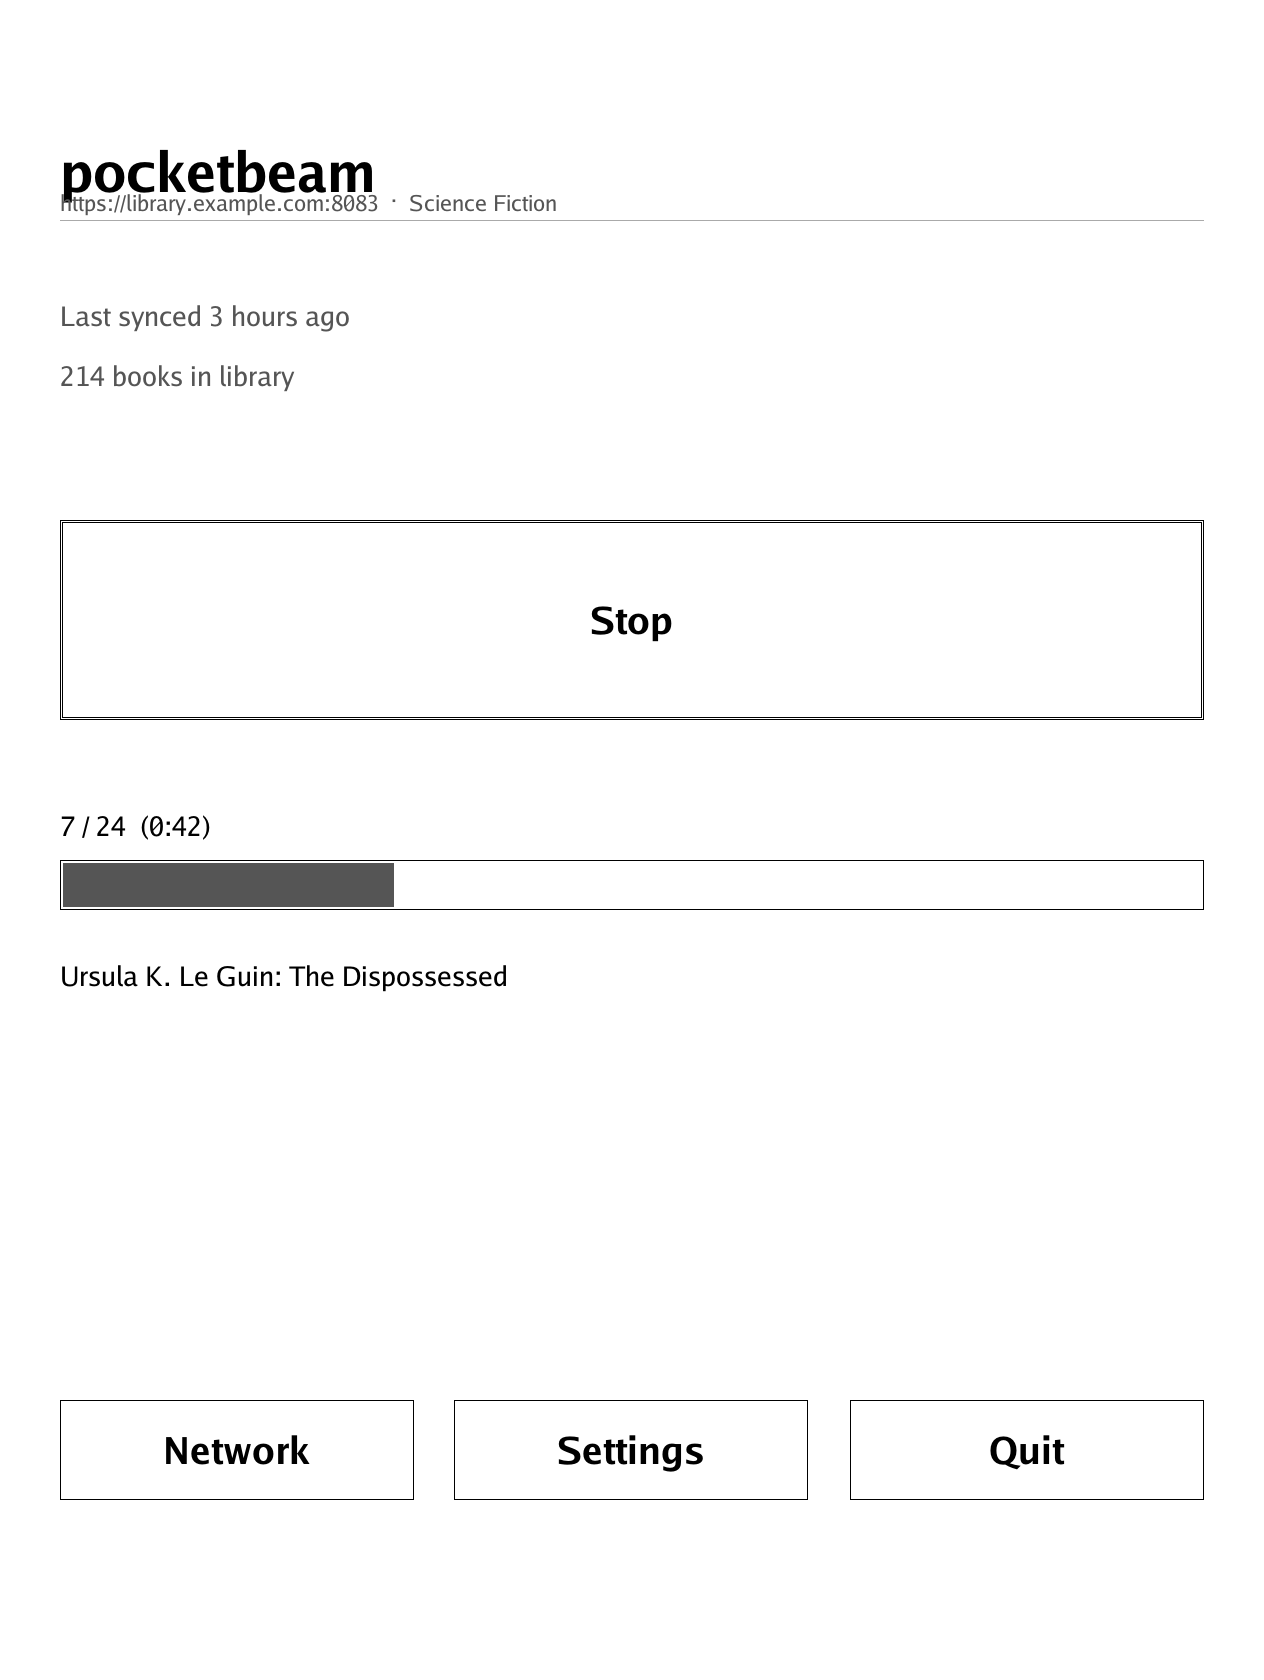
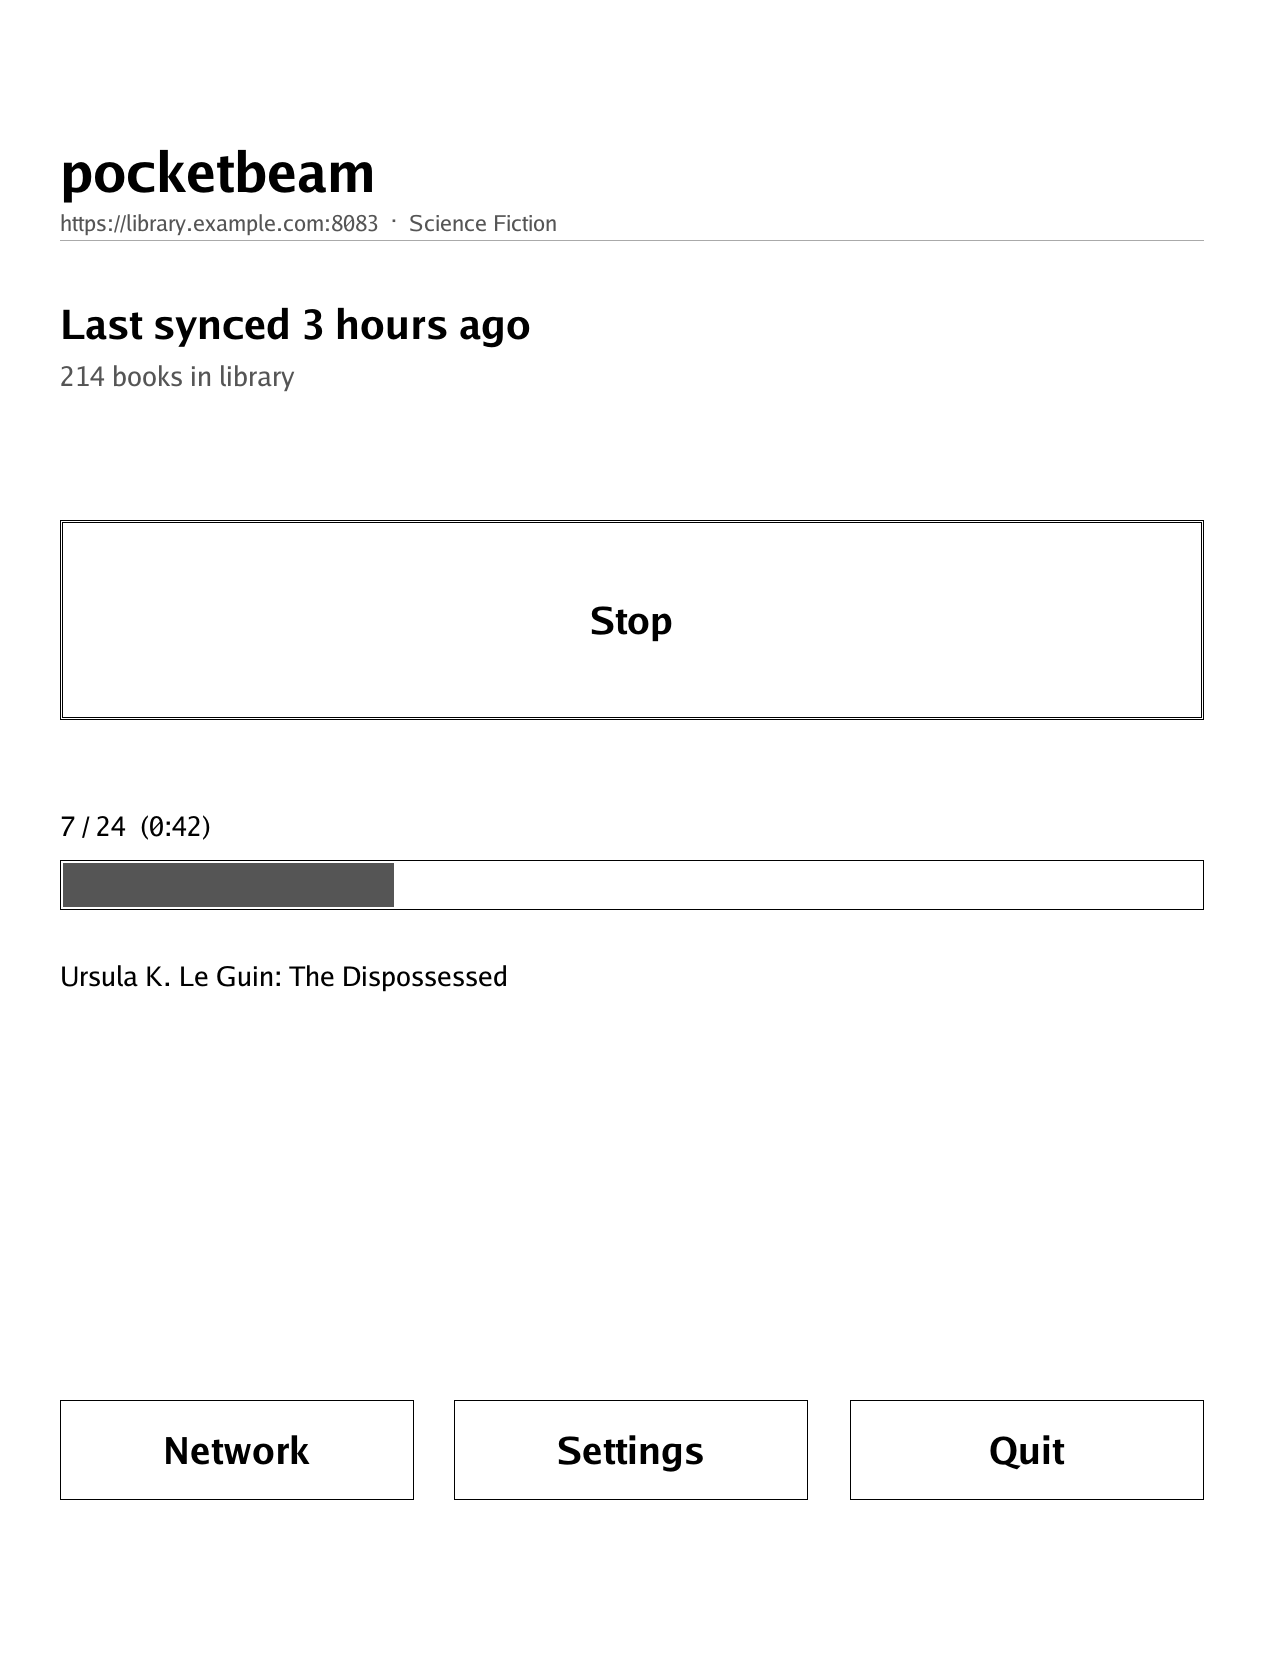
Put the main screen's header and status block on the shared grid
The screenshots this PR puts at the top of the README showed the header
lines touching: a string occupies a glyph box as tall as the face it was
opened at, so the 64 px title drawn at sy(140) runs to sy(204) while the
subtitle started at sy(190). Every other screen (dir picker, feed picker,
profile detail, updates) already uses 140 / 210 / 240 for title,
subtitle and hairline; the main screen was the one off-grid and is moved
onto it.

The status block opened a 48 px bold face, made it active, and replaced
it with the muted 32 px body face on the next line, so the "emphatic
primary line" its comment describes was never drawn and every line
rendered muted. The primary line now uses the hero face and only the
supporting lines are muted.

The screenshot fixture fed time.Now() into a render that is compared
pixel-for-pixel against a committed PNG, which only held because
humanAgo buckets 90 min - 24 h to whole hours. The phrase is now
resolved into mainView by its caller, like syncSnapshot.elapsed already
is, so drawing depends on no clock and the fixture states a fixed
string.

TestDrawMainLinesDoNotOverlap asserts no two strings on the screen claim
the same pixels, across the idle, first-run, failures-plus-update and
syncing states; it fails on the old header offsets. There is no device
in CI, so the geometry is checked directly instead of by eye.

Closes #18

Changed region(s): [[0.0617, 0.0929, 0.432, 0.1548], [0.0309, 0.1857, 0.432, 0.2167]]

diff --git a/ui_main.go b/ui_main.go
@@ -31,10 +31,15 @@ type syncSnapshot struct {
 // starts: the header subtitle, the library stats, the sync progress, and
 // the version of a waiting update ("" when none).
 type mainView struct {
-	subtitle  string
-	stats     mainStats
-	sync      syncSnapshot
-	updateVer string
+	subtitle string
+	stats    mainStats
+	// lastSyncAgo is stats.lastSync.At already phrased ("3 hours ago"),
+	// read only when stats.hasLastSync. Resolved by the caller like
+	// syncSnapshot.elapsed, so the draw depends on no clock and renders
+	// the same image every time.
+	lastSyncAgo string
+	sync        syncSnapshot
+	updateVer   string
 }
 
 // mainSubtitle renders the header's second line: which server this
@@ -61,22 +66,24 @@ func drawMain(c Canvas, l layout, v mainView) {
 	btnFont := l.font(c, 44, true)
 
 	// Title + host subtitle (host in muted gray so the filter/host context
-	// is present but secondary to the action area).
+	// is present but secondary to the action area). A string sits in a
+	// glyph box as tall as the size it was opened at, so the 64px title
+	// occupies down to sy(204): the subtitle goes below that, on the same
+	// 140/210/240 header grid every other screen uses.
 	c.SetFont(title, black)
 	c.Text(image.Point{X: l.margin, Y: l.sy(140)}, "pocketbeam")
 	c.SetFont(small, darkGray)
-	c.Text(image.Point{X: l.margin, Y: l.sy(190)}, truncate(v.subtitle, 60))
+	c.Text(image.Point{X: l.margin, Y: l.sy(210)}, truncate(v.subtitle, 60))
 
 	// Hairline under the header.
-	l.drawHairline(c, l.margin, l.screen.X-l.margin, l.sy(220))
+	l.drawHairline(c, l.margin, l.screen.X-l.margin, l.sy(240))
 
 	// Status hero: emphatic primary line + muted supporting details.
 	statusY := l.sy(300)
 	c.SetFont(hero, black)
-	c.SetFont(body, darkGray)
 	if v.stats.hasLastSync {
-		c.Text(image.Point{X: l.margin, Y: statusY},
-			"Last synced "+humanAgo(v.stats.lastSync.At))
+		c.Text(image.Point{X: l.margin, Y: statusY}, "Last synced "+v.lastSyncAgo)
+		c.SetFont(body, darkGray)
 		c.Text(image.Point{X: l.margin, Y: statusY + l.sy(60)},
 			fmt.Sprintf("%d books in library", v.stats.bookCount))
 		if v.stats.lastSync.Failed > 0 {
@@ -85,6 +92,7 @@ func drawMain(c Canvas, l layout, v mainView) {
 		}
 	} else {
 		c.Text(image.Point{X: l.margin, Y: statusY}, "Not yet synced")
+		c.SetFont(body, darkGray)
 		c.Text(image.Point{X: l.margin, Y: statusY + l.sy(60)},
 			"Tap Sync Now to begin")
 	}

diff --git a/ui_main_test.go b/ui_main_test.go
@@ -11,8 +11,9 @@ import (
 // mainTestView is the baseline the cases below vary one thing from.
 func mainTestView() mainView {
 	return mainView{
-		subtitle: "https://books.example.com  ·  All books",
-		stats:    mainStats{lastSync: SyncSummary{At: time.Now().Add(-2 * time.Hour)}, hasLastSync: true, bookCount: 12},
+		subtitle:    "https://books.example.com  ·  All books",
+		stats:       mainStats{hasLastSync: true, bookCount: 12},
+		lastSyncAgo: "2 hours ago",
 	}
 }
 
@@ -72,6 +73,35 @@ func TestDrawMainUpdateBadge(t *testing.T) {
 	v.updateVer = "v9.9.9"
 	if c := drawMainOn(v); !c.drew("Update v9.9.9 available in Settings") {
 		t.Errorf("update badge missing; drew %q", c.texts)
+	}
+}
+
+// Every line on the screen is placed by a hard-coded offset, and a
+// string occupies a glyph box as tall as the face it is drawn in, so a
+// gap smaller than the line above it silently stacks two lines on top of
+// each other. That is not visible in a text assertion and there is no
+// device in CI, so the geometry is asserted directly.
+func TestDrawMainLinesDoNotOverlap(t *testing.T) {
+	full := mainTestView()
+	full.updateVer = "v9.9.9"
+	full.stats.lastSync.Failed = 3
+	syncing := mainTestView()
+	syncing.sync = syncSnapshot{active: true, index: 7, total: 24, author: "Le Guin", title: "The Dispossessed", elapsed: 95 * time.Second}
+	for name, v := range map[string]mainView{
+		"idle": mainTestView(),
+		"first run": func() mainView {
+			v := mainTestView()
+			v.stats = mainStats{}
+			return v
+		}(),
+		"failures and an update": full,
+		"syncing":                syncing,
+	} {
+		t.Run(name, func(t *testing.T) {
+			if a, b, ok := drawMainOn(v).overlappingText(); ok {
+				t.Errorf("%q at %v overlaps %q at %v", a.s, a.r, b.s, b.r)
+			}
+		})
 	}
 }
 

diff --git a/canvas_test.go b/canvas_test.go
@@ -15,6 +15,17 @@ import (
 type recordCanvas struct {
 	*imageCanvas
 	texts []string
+	boxes []textBox
+}
+
+// textBox is a drawn string plus the rectangle it claims: the position
+// it was drawn at, the measured width, and the height of the face that
+// was active. Screens place their lines by hard-coded offsets, so this
+// is what a test needs to catch two of them landing on top of each
+// other.
+type textBox struct {
+	s string
+	r image.Rectangle
 }
 
 func newRecordCanvas() *recordCanvas {
@@ -23,7 +34,24 @@ func newRecordCanvas() *recordCanvas {
 
 func (c *recordCanvas) Text(p image.Point, s string) {
 	c.texts = append(c.texts, s)
+	c.boxes = append(c.boxes, textBox{
+		s: s,
+		r: image.Rect(p.X, p.Y, p.X+c.imageCanvas.TextWidth(s), p.Y+c.imageCanvas.active.Height()),
+	})
 	c.imageCanvas.Text(p, s)
+}
+
+// overlappingText returns the first pair of drawn strings whose glyph
+// boxes intersect, if any.
+func (c *recordCanvas) overlappingText() (textBox, textBox, bool) {
+	for i, a := range c.boxes {
+		for _, b := range c.boxes[i+1:] {
+			if a.r.Overlaps(b.r) {
+				return a, b, true
+			}
+		}
+	}
+	return textBox{}, textBox{}, false
 }
 
 // drew reports whether any drawn string contains want.

diff --git a/screenshots.go b/screenshots.go
@@ -55,11 +55,12 @@ func mainIdleView() mainView {
 			FilterNames: []string{"Science Fiction"},
 		}),
 		stats: mainStats{
-			lastSync:    SyncSummary{At: time.Now().Add(-3 * time.Hour), Downloaded: 4},
+			lastSync:    SyncSummary{Downloaded: 4},
 			hasLastSync: true,
 			bookCount:   214,
 		},
-		updateVer: "v0.6.0",
+		lastSyncAgo: "3 hours ago",
+		updateVer:   "v0.6.0",
 	}
 }
 

diff --git a/ui_main_arm.go b/ui_main_arm.go
@@ -94,6 +94,9 @@ func (a *app) mainView() mainView {
 		stats:    a.Stats(),
 		sync:     a.sync.snapshot(),
 	}
+	if v.stats.hasLastSync {
+		v.lastSyncAgo = humanAgo(v.stats.lastSync.At)
+	}
 	a.update.mu.Lock()
 	if a.update.available {
 		v.updateVer = a.update.release.Version
